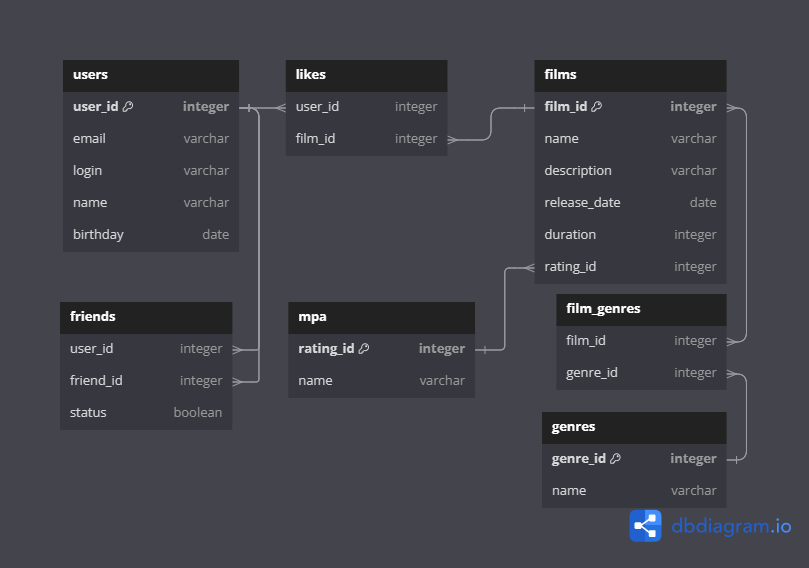
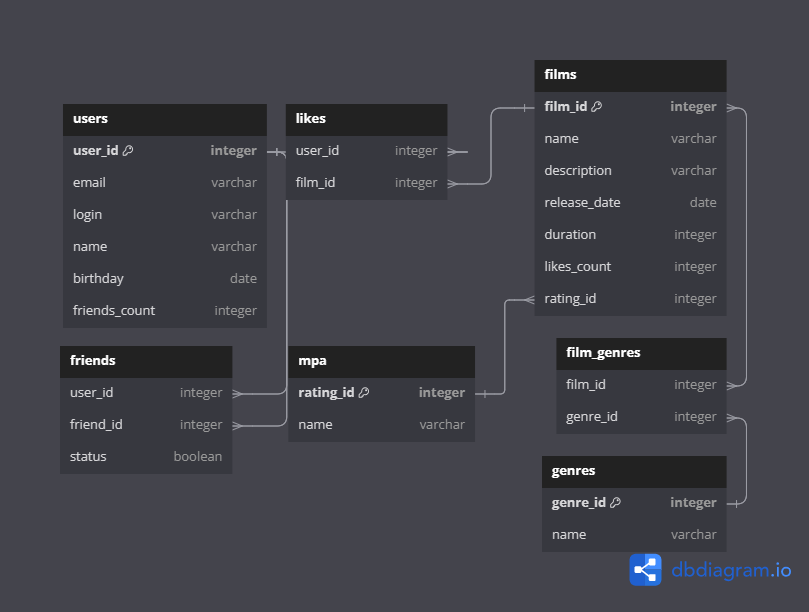
refactor: Вынести дублирующийся код в отдельный метод addGenre

diff --git a/src/main/java/ru/yandex/practicum/filmorate/storage/film/FilmDbStorage.java b/src/main/java/ru/yandex/practicum/filmorate/storage/film/FilmDbStorage.java
@@ -39,11 +39,9 @@ public class FilmDbStorage implements FilmStorage {
     public List<Film> getFilms() {
         String sql = "SELECT f.*, " +
                 "m.name AS mpa_name, " +
-                "COUNT(l.user_id) AS likes_count, " +
                 "GROUP_CONCAT(CONCAT(g.genre_id, ':', g.name) SEPARATOR ', ') AS genres " +
                 "FROM films AS f " +
                 "LEFT JOIN mpa AS m ON f.mpa_id = m.mpa_id " +
-                "LEFT JOIN likes AS l ON l.film_id = f.film_id " +
                 "LEFT JOIN film_genres AS fg ON f.film_id = fg.film_id " +
                 "LEFT JOIN genres AS g ON fg.genre_id = g.genre_id " +
                 "GROUP BY f.film_id;";
@@ -71,22 +69,12 @@ public class FilmDbStorage implements FilmStorage {
                 return ps;
             }, keyHolder);
 
-            int filmId = keyHolder.getKey().intValue();
+            film.setId(keyHolder.getKey().intValue());
 
-            String sqlAddGenre = "INSERT INTO film_genres (film_id, genre_id) VALUES (?, ?)";
-            List<Object[]> batchArgs = new ArrayList<>();
-            Set<Integer> existingGenres = new HashSet<>();
-            for (Genre genre : film.getGenres()) {
-                int genreId = genre.getId();
-                if (!existingGenres.contains(genreId)) {
-                    batchArgs.add(new Object[]{filmId, genre.getId()});
-                    existingGenres.add(genreId);
-                }
-            }
-            if (!batchArgs.isEmpty()) {
-                jdbcTemplate.batchUpdate(sqlAddGenre, batchArgs);
-            }
-            return new Film(filmId, film.getName(), film.getDescription(), film.getReleaseDate(), film.getDuration(), 0, film.getGenres(), film.getMpa()); // Устанавливаем пустое множество для лайков
+            addGenre(film);
+
+            return new Film(film.getId(), film.getName(), film.getDescription(), film.getReleaseDate(),
+                    film.getDuration(), 0, film.getGenres(), film.getMpa());
         } else {
             return null;
         }
@@ -99,7 +87,8 @@ public class FilmDbStorage implements FilmStorage {
         if (filmCheck == 0) {
             throw new ElementNotFoundException("Объект не найден");
         }
-        String sqlUpdateFilm = "UPDATE films SET name = ?, description = ?, release_date = ?, duration = ?, mpa_id = ? WHERE film_id = ?";
+        String sqlUpdateFilm = "UPDATE films SET name = ?, description = ?, " +
+                "release_date = ?, duration = ?, mpa_id = ? WHERE film_id = ?";
         jdbcTemplate.update(sqlUpdateFilm, film.getName(), film.getDescription(),
                 Date.valueOf(film.getReleaseDate()), film.getDuration(),
                 film.getMpa().getId(), film.getId());
@@ -125,11 +114,10 @@ public class FilmDbStorage implements FilmStorage {
 
     @Override
     public Film getFilm(int id) {
-        String sql = "SELECT f.*, m.name AS mpa_name, COUNT(user_id) AS likes_count, " +
+        String sql = "SELECT f.*, m.name AS mpa_name, " +
                 "GROUP_CONCAT(CONCAT(g.genre_id, ':', g.name) SEPARATOR ', ') AS genres " +
                 "FROM films AS f " +
                 "LEFT JOIN mpa AS m ON f.mpa_id = m.mpa_id " +
-                "LEFT JOIN likes AS l ON l.film_id = f.film_id " +
                 "LEFT JOIN film_genres AS fg ON f.film_id = fg.film_id " +
                 "LEFT JOIN genres AS g ON fg.genre_id = g.genre_id " +
                 "WHERE f.film_id = ?" +
@@ -145,29 +133,40 @@ public class FilmDbStorage implements FilmStorage {
     public void addLike(Integer id, Integer userId) {
         String sqlGetLikes = "SELECT COUNT(*) FROM likes WHERE film_id = ? AND user_id = ?;";
         int userLike = jdbcTemplate.queryForObject(sqlGetLikes, Integer.class, id, userId);
+
         if (userLike == 0) {
             String sql = "INSERT INTO likes(user_id,film_id) VALUES (?, ?);";
             jdbcTemplate.update(sql, userId, id);
+
+            String sqlUpdateLikesCount = "UPDATE films SET likes_count = likes_count + 1 WHERE film_id = ?";
+            jdbcTemplate.update(sqlUpdateLikesCount, id);
         }
     }
 
     @Override
     public void deleteLike(Integer id, Integer userId) {
-        String sql = "DELETE FROM likes WHERE user_id = ? AND film_id = ?";
-        jdbcTemplate.update(sql, userId, id);
+        String sqlGetLikes = "SELECT COUNT(*) FROM likes WHERE film_id = ? AND user_id = ?;";
+        int userLike = jdbcTemplate.queryForObject(sqlGetLikes, Integer.class, id, userId);
+
+        if (userLike > 0) {
+            String sql = "DELETE FROM likes WHERE film_id = ? AND user_id = ?";
+            jdbcTemplate.update(sql, id, userId);
+
+            String sqlUpdateLikesCount = "UPDATE films SET likes_count = likes_count - 1 WHERE film_id = ?";
+            jdbcTemplate.update(sqlUpdateLikesCount, id);
+        }
     }
 
     @Override
     public List<Film> getTopFilms(int count) {
-        String sql = "SELECT f.*, m.name AS mpa_name, COUNT(l.film_id) AS likes_count, " +
+        String sql = "SELECT f.*, m.name AS mpa_name, " +
                 "GROUP_CONCAT(CONCAT(g.genre_id, ':', g.name) SEPARATOR ', ') AS genres " +
                 "FROM films AS f " +
-                "LEFT JOIN likes AS l ON f.film_id = l.film_id " +
                 "LEFT JOIN mpa AS m ON f.mpa_id = m.mpa_id " +
                 "LEFT JOIN film_genres AS fg ON f.film_id = fg.film_id " +
                 "LEFT JOIN genres AS g ON fg.genre_id = g.genre_id " +
                 "GROUP BY f.film_id " +
-                "ORDER BY likes_count DESC " +
+                "ORDER BY f.likes_count DESC " +
                 "LIMIT ?";
         return jdbcTemplate.query(sql, new Object[]{count}, (rs, rowNum) -> mapRowToFilm(rs));
     }
@@ -178,9 +177,9 @@ public class FilmDbStorage implements FilmStorage {
         String description = rs.getString("description");
         LocalDate releaseDate = rs.getDate("release_date").toLocalDate();
         int duration = rs.getInt("duration");
+        int likesCount = rs.getInt("likes_count");
         int mpaId = rs.getInt("mpa_id");
         String mpaName = rs.getString("mpa_name");
-        int likesCount = rs.getInt("likes_count");
 
         String genresStr = rs.getString("genres");
         List<Genre> genres = new ArrayList<>();
@@ -198,6 +197,22 @@ public class FilmDbStorage implements FilmStorage {
         Mpa mpa = new Mpa(mpaId, mpaName);
 
         return new Film(filmId, name, description, releaseDate, duration, likesCount, genres, mpa);
+    }
+
+    private void addGenre(Film film) {
+        String sqlAddGenre = "INSERT INTO film_genres (film_id, genre_id) VALUES (?, ?)";
+        List<Object[]> batchArgs = new ArrayList<>();
+        Set<Integer> existingGenres = new HashSet<>();
+        for (Genre genre : film.getGenres()) {
+            int genreId = genre.getId();
+            if (!existingGenres.contains(genreId)) {
+                batchArgs.add(new Object[]{film.getId(), genre.getId()});
+                existingGenres.add(genreId);
+            }
+        }
+        if (!batchArgs.isEmpty()) {
+            jdbcTemplate.batchUpdate(sqlAddGenre, batchArgs);
+        }
     }
 
     private boolean checkValid(Film film) {

diff --git a/src/main/java/ru/yandex/practicum/filmorate/storage/user/UserDbStorage.java b/src/main/java/ru/yandex/practicum/filmorate/storage/user/UserDbStorage.java
@@ -21,6 +21,7 @@ import java.util.List;
 @Repository
 public class UserDbStorage implements UserStorage {
     private final JdbcTemplate jdbcTemplate;
+    private final String sqlGetUsers = "SELECT * FROM users ";
 
     @Autowired
     public UserDbStorage(JdbcTemplate jdbcTemplate) {
@@ -29,11 +30,7 @@ public class UserDbStorage implements UserStorage {
 
     @Override
     public List<User> getUsers() {
-        String sql = "SELECT u.*, COUNT(f.friend_id) AS friends_count " +
-                "FROM users AS u " +
-                "LEFT JOIN friends AS f ON u.user_id = f.user_id " +
-                "GROUP BY u.user_id;";
-        return jdbcTemplate.query(sql, (rs, rowNum) -> (mapRowToUser(rs)));
+        return jdbcTemplate.query(sqlGetUsers, (rs, rowNum) -> (mapRowToUser(rs)));
     }
 
     @Override
@@ -64,13 +61,7 @@ public class UserDbStorage implements UserStorage {
 
     @Override
     public User getUser(int id) {
-        String sql = "SELECT u.*, COUNT(f.friend_id) AS friends_count " +
-                "FROM users AS u " +
-                "LEFT JOIN friends AS f ON u.user_id = f.user_id " +
-                "WHERE u.user_id = ? " +
-                "GROUP BY u.user_id;";
-
-        List<User> user = jdbcTemplate.query(sql, (rs, rowNum) -> mapRowToUser(rs), id);
+        List<User> user = jdbcTemplate.query(sqlGetUsers + "WHERE user_id = ?;", (rs, rowNum) -> mapRowToUser(rs), id);
         if (user.isEmpty()) {
             throw new ElementNotFoundException("Объект не найден");
         }
@@ -80,22 +71,19 @@ public class UserDbStorage implements UserStorage {
     @Override
     public List<User> getFriends(int id) {
         getUser(id);
-        String sql = "SELECT u.*, COUNT(ff.friend_id) AS friends_count " +
+        String sql = "SELECT u.* " +
                 "FROM friends AS f " +
                 "JOIN users AS u ON f.friend_id = u.user_id " +
-                "LEFT JOIN friends AS ff ON f.friend_id = ff.user_id " +
-                "WHERE f.user_id = ? " +
-                "GROUP BY u.user_id;";
+                "WHERE f.user_id = ?;";
         return jdbcTemplate.query(sql, (rs, rowNum) -> mapRowToUser(rs), id);
     }
 
     @Override
     public List<User> getCommonFriends(Integer id, Integer otherId) {
-        String sql = "SELECT u.*, COUNT(f3.friend_id) AS friends_count " +
+        String sql = "SELECT u.* " +
                 "FROM users AS u " +
                 "JOIN friends AS f1 ON f1.friend_id = u.user_id " +
                 "JOIN friends AS f2 ON f2.friend_id = u.user_id " +
-                "LEFT JOIN friends AS f3 ON f3.user_id = u.user_id " +
                 "WHERE f1.user_id = ? AND f2.user_id = ?;";
 
         return jdbcTemplate.query(sql, new Object[]{id, otherId}, (rs, rowNum) -> mapRowToUser(rs));
@@ -107,13 +95,15 @@ public class UserDbStorage implements UserStorage {
         getUser(friendId);
         String sqlCreate = "INSERT INTO friends(user_id, friend_id, status) VALUES (?, ?, ?);";
         String sqlUpdate = "UPDATE friends SET status = ? WHERE user_id = ? AND friend_id = ?";
-        if (checkFriend(friendId, id)) {
-            if (!checkFriend(id, friendId)) {
+        if (!checkFriend(id, friendId)) {
+            if (checkFriend(friendId, id)) {
                 jdbcTemplate.update(sqlCreate, id, friendId, true);
                 jdbcTemplate.update(sqlUpdate, true, friendId, id);
+            } else {
+                jdbcTemplate.update(sqlCreate, id, friendId, false);
             }
-        } else {
-            jdbcTemplate.update(sqlCreate, id, friendId, false);
+            String sqlUpdateFriendsCount = "UPDATE users SET friends_count = friends_count + 1 WHERE user_id = ?";
+            jdbcTemplate.update(sqlUpdateFriendsCount, id);
         }
         return getUser(friendId);
     }
@@ -126,7 +116,11 @@ public class UserDbStorage implements UserStorage {
         String sqlUpdate = "UPDATE friends SET status = ? WHERE user_id = ? AND friend_id = ?";
         if (checkFriend(id, friendId)) {
             jdbcTemplate.update(sqlDelete, id, friendId);
-            jdbcTemplate.update(sqlUpdate, false, friendId, id);
+            if (checkFriend(friendId, id)) {
+                jdbcTemplate.update(sqlUpdate, false, friendId, id);
+            }
+            String updateFriendsCountSql = "UPDATE users SET friends_count = friends_count - 1 WHERE user_id = ?";
+            jdbcTemplate.update(updateFriendsCountSql, id);
         }
         return getUser(friendId);
     }

diff --git a/src/test/java/ru/yandex/practicum/filmorate/db/UserDbStorageTest.java b/src/test/java/ru/yandex/practicum/filmorate/db/UserDbStorageTest.java
@@ -82,38 +82,38 @@ class UserDbStorageTest {
         userStorage.createUser(user2);
         userStorage.addFriend(user1.getId(), user2.getId());
 
-        assertThat(userStorage.getUser(1).getFriends())
+        assertThat(userStorage.getUser(1).getFriendsCount())
                 .isNotNull()
                 .usingRecursiveComparison()
                 .isEqualTo(1);
 
-        assertThat(userStorage.getUser(2).getFriends())
+        assertThat(userStorage.getUser(2).getFriendsCount())
                 .isNotNull()
                 .usingRecursiveComparison()
                 .isEqualTo(0);
 
         userStorage.addFriend(user2.getId(), user1.getId());
 
-        assertThat(userStorage.getUser(2).getFriends())
+        assertThat(userStorage.getUser(2).getFriendsCount())
                 .isNotNull()
                 .usingRecursiveComparison()
                 .isEqualTo(1);
 
         userStorage.deleteFriend(user1.getId(), user2.getId());
 
-        assertThat(userStorage.getUser(1).getFriends())
+        assertThat(userStorage.getUser(1).getFriendsCount())
                 .isNotNull()
                 .usingRecursiveComparison()
                 .isEqualTo(0);
 
-        assertThat(userStorage.getUser(2).getFriends())
+        assertThat(userStorage.getUser(2).getFriendsCount())
                 .isNotNull()
                 .usingRecursiveComparison()
                 .isEqualTo(1);
 
         userStorage.deleteFriend(user2.getId(), user1.getId());
 
-        assertThat(userStorage.getUser(2).getFriends())
+        assertThat(userStorage.getUser(2).getFriendsCount())
                 .isNotNull()
                 .usingRecursiveComparison()
                 .isEqualTo(0);

diff --git a/src/main/java/ru/yandex/practicum/filmorate/storage/film/InMemoryFilmStorage.java b/src/main/java/ru/yandex/practicum/filmorate/storage/film/InMemoryFilmStorage.java
@@ -43,8 +43,8 @@ public class InMemoryFilmStorage implements FilmStorage {
         if (!films.containsKey(film.getId())) {
             throw new ElementNotFoundException("Объект не найден.");
         }
-        int likes = films.get(film.getId()).getLikes();
-        film.setLikes(likes);
+        int likes = films.get(film.getId()).getLikesCount();
+        film.setLikesCount(likes);
         if (checkValid(film)) {
             films.put(film.getId(), film);
             log.info("Фильм {} обновлен.", film.getName());
@@ -64,20 +64,20 @@ public class InMemoryFilmStorage implements FilmStorage {
     public void addLike(Integer id, Integer userId) {
         getFilm(id);
         filmLikes.get(id).add(userId);
-        getFilm(id).setLikes(getFilm(id).getLikes() + 1);
+        getFilm(id).setLikesCount(getFilm(id).getLikesCount() + 1);
     }
 
     @Override
     public void deleteLike(Integer id, Integer userId) {
         getFilm(id);
         filmLikes.get(id).remove(userId);
-        getFilm(id).setLikes(getFilm(id).getLikes() - 1);
+        getFilm(id).setLikesCount(getFilm(id).getLikesCount() - 1);
     }
 
     @Override
     public List<Film> getTopFilms(int count) {
         return getFilms().stream()
-                .sorted(Comparator.comparingInt(film -> -film.getLikes()))
+                .sorted(Comparator.comparingInt(film -> -film.getLikesCount()))
                 .limit(count)
                 .collect(Collectors.toList());
     }

diff --git a/src/test/java/ru/yandex/practicum/filmorate/controllers/FilmControllerTest.java b/src/test/java/ru/yandex/practicum/filmorate/controllers/FilmControllerTest.java
@@ -144,18 +144,18 @@ public class FilmControllerTest {
         filmController.addLike(1, 1);
 
         assertThrows(ElementNotFoundException.class, () -> filmController.addLike(2, 1), "Ошибка не выводится");
-        assertEquals(1, filmController.getFilm(1).getLikes(), "Количество лайков не совпадает.");
+        assertEquals(1, filmController.getFilm(1).getLikesCount(), "Количество лайков не совпадает.");
 
         Film updatedFilm = new Film(1, "updatedFilm", "filmDescription",
                 LocalDate.of(1999, 11, 11), 180);
         filmController.updateFilm(updatedFilm);
 
-        assertEquals(1, filmController.getFilm(1).getLikes(), "Лайки не передаются в обновленный фильм.");
+        assertEquals(1, filmController.getFilm(1).getLikesCount(), "Лайки не передаются в обновленный фильм.");
 
         filmController.deleteLike(1, 1);
 
         assertThrows(ElementNotFoundException.class, () -> filmController.deleteLike(2, 1), "Ошибка не выводится");
-        assertEquals(0, filmController.getFilm(1).getLikes(), "Количество лайков не совпадает.");
+        assertEquals(0, filmController.getFilm(1).getLikesCount(), "Количество лайков не совпадает.");
     }
 
     @Test

diff --git a/src/test/java/ru/yandex/practicum/filmorate/db/FilmDbStorageTest.java b/src/test/java/ru/yandex/practicum/filmorate/db/FilmDbStorageTest.java
@@ -93,12 +93,12 @@ public class FilmDbStorageTest {
 
         filmService.addLike(1, 1);
 
-        assertThat(filmService.getFilm(1).getLikes())
+        assertThat(filmService.getFilm(1).getLikesCount())
                 .isEqualTo(1);
 
         filmService.deleteLike(1, 1);
 
-        assertThat(filmService.getFilm(1).getLikes())
+        assertThat(filmService.getFilm(1).getLikesCount())
                 .isEqualTo(0);
     }
 }

diff --git a/src/main/java/ru/yandex/practicum/filmorate/model/Film.java b/src/main/java/ru/yandex/practicum/filmorate/model/Film.java
@@ -30,7 +30,7 @@ public class Film {
     @Positive(message = "Продолжительность фильма не может быть отрицательной или равняться нулю.")
     private int duration;
 
-    private int likes;
+    private int likesCount;
     private List<Genre> genres = new ArrayList<>();
     private Mpa mpa;
 

diff --git a/src/main/java/ru/yandex/practicum/filmorate/model/User.java b/src/main/java/ru/yandex/practicum/filmorate/model/User.java
@@ -24,7 +24,7 @@ public class User {
     @Past(message = "Дата рождения не может быть в будущем.")
     @NotNull
     private LocalDate birthday;
-    private int friends;
+    private int friendsCount;
 
     public User(int id, String email, String login, String name, LocalDate birthday) {
         this.id = id;
